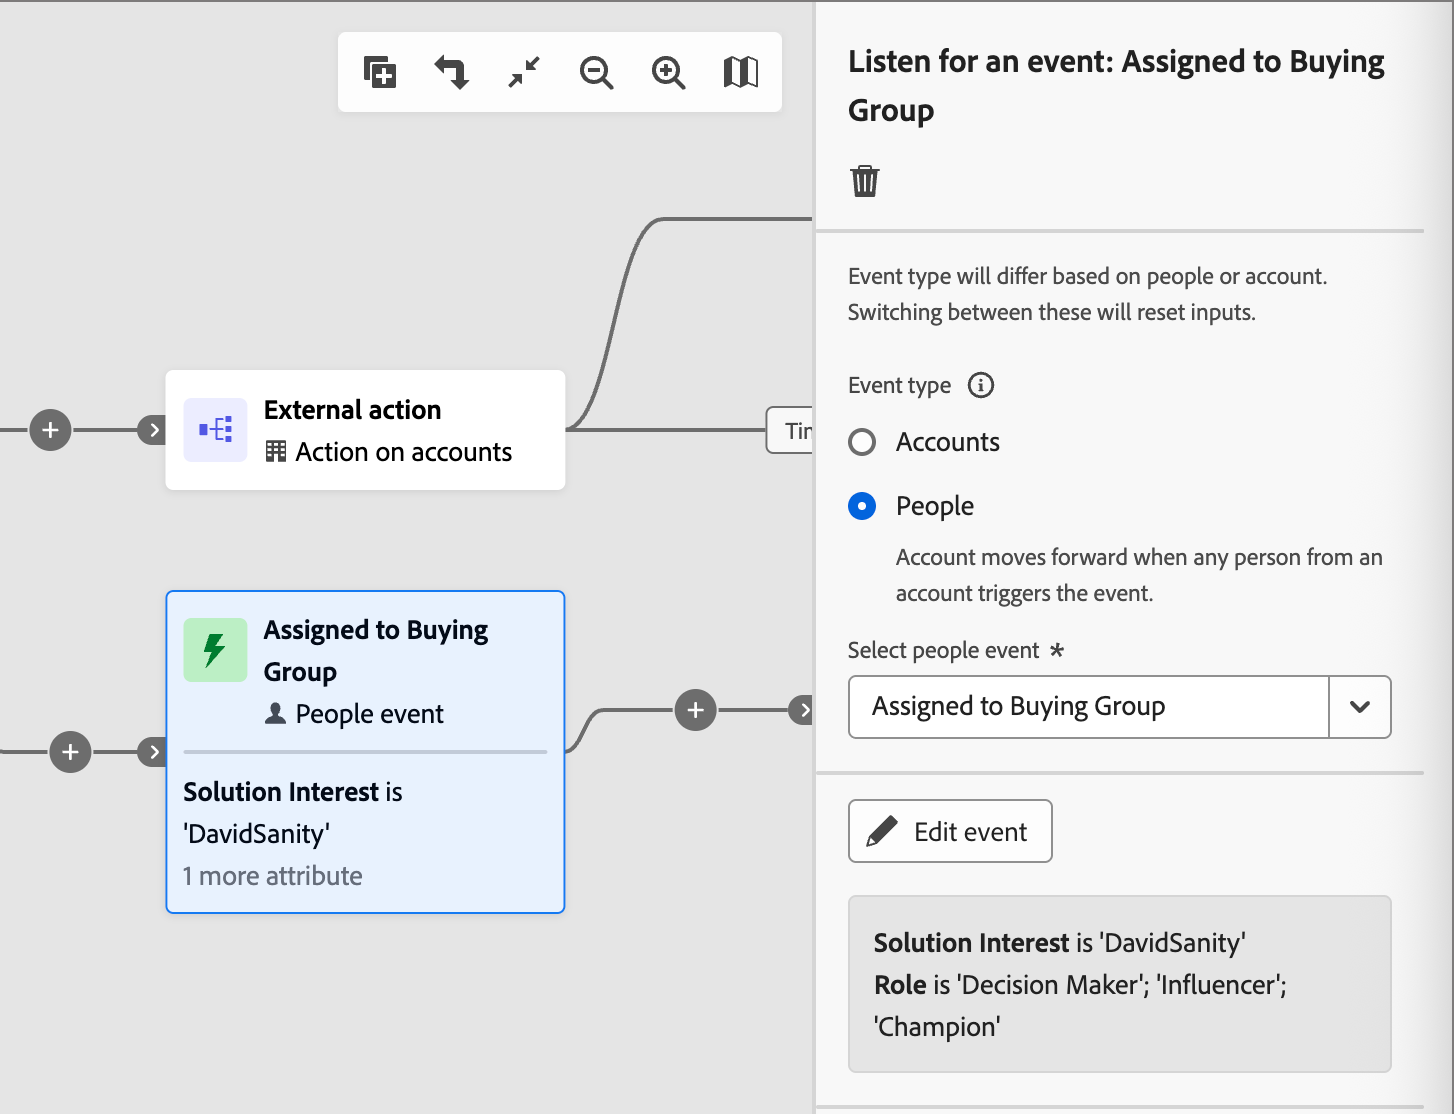
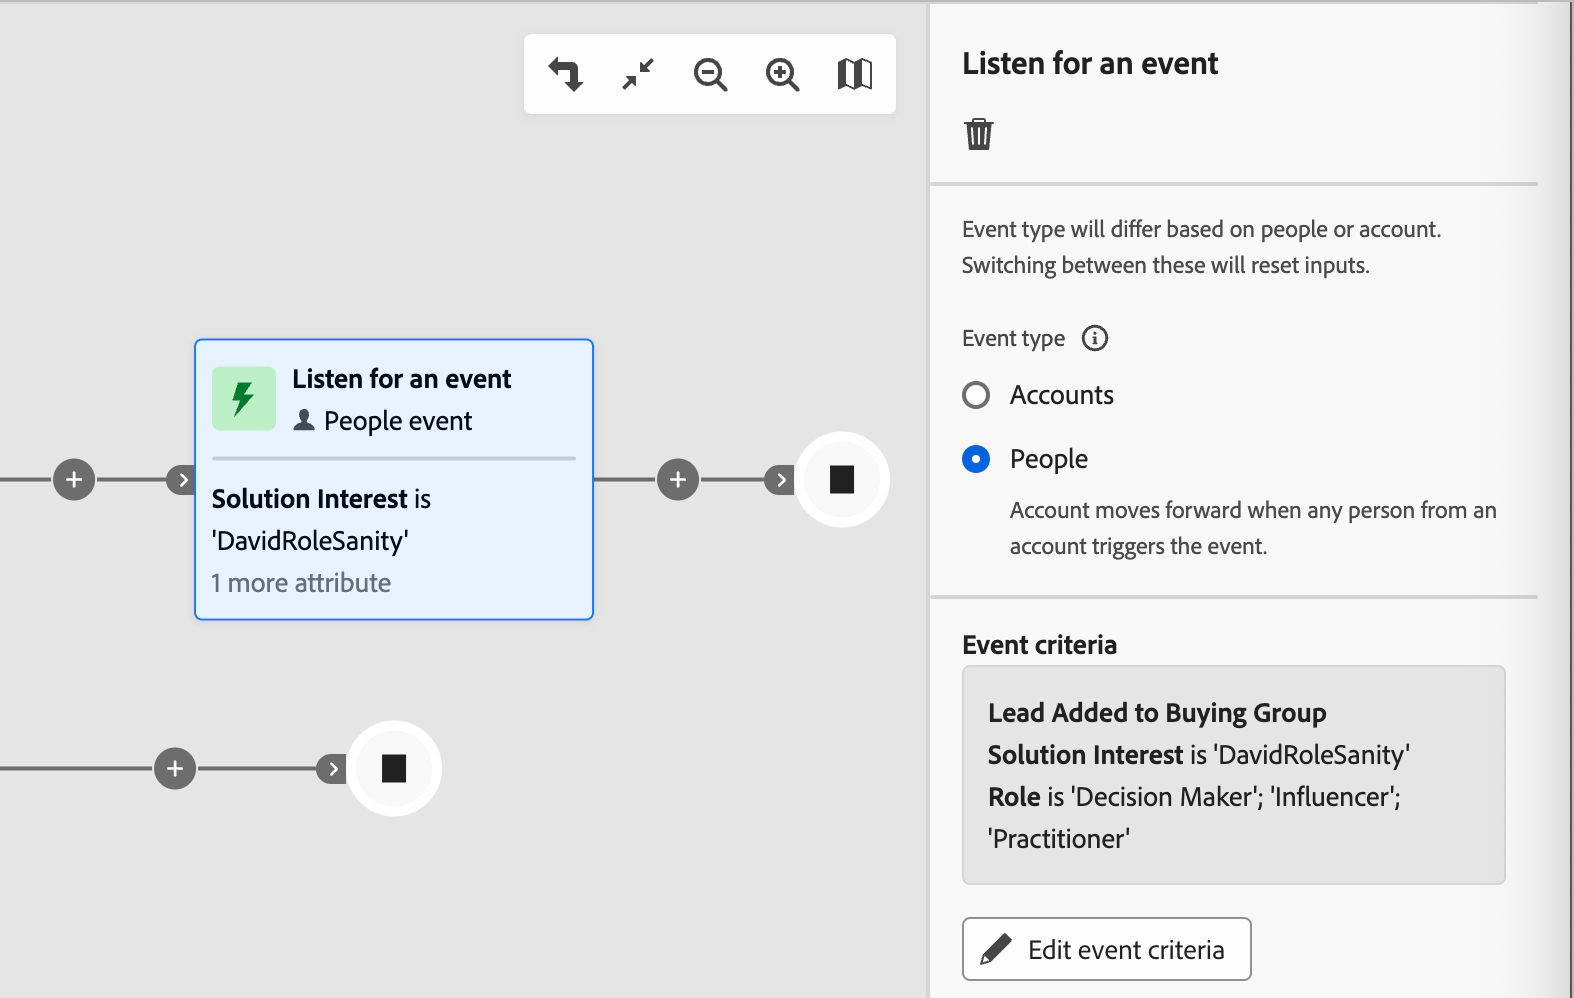
SPHR-36708, Listen for an event account journey multiple trigger/filter support

Changed region(s): [[0.0, 0.0, 1.0, 1.0], [0.4333, 0.1864, 0.5571, 0.2174], [0.2476, 0.0311, 0.2785, 0.0932]]

diff --git a/help/user/journeys/listen-for-event-nodes.md b/help/user/journeys/listen-for-event-nodes.md
@@ -44,80 +44,49 @@ To move the audience forward to the next step in your [journey](./journeys-overv
 
 1. In the node properties on the right, use the _Event type_ selector to choose between **[!UICONTROL Accounts]** and **[!UICONTROL People]**.
 
-1. Select an event from the list.
-
-   * For the _People_ event type, choose the [people event](#people-events) that you want to use for the trigger.
-
-       ![Journey node - listen for events on people](./assets/node-listen-events-people.png){width="500" zoomable="yes"}
+1. Define the event trigger for the selected event type:
 
    * For the _Accounts_ event type, choose the [account event](#account-events) that you want to use for the trigger.
 
       ![Journey node - listen for events on account](./assets/node-listen-events-account.png){width="500" zoomable="yes"}
 
-1. Click **[!UICONTROL Edit event]** and define details for the event.
+      Click **[!UICONTROL Edit event]** and define the matching criteria for the [account event](#account-events).
 
-   Depending on the selected event type and event, define the event matching criteria.
+   * For the _People_ event type, click **[!UICONTROL Add event criteria]**.
 
-   * [People events](#people-events)
-   * [Account events](#account-events)
+      ![Journey node - listen for events on people](./assets/node-listen-events-people.png){width="500" zoomable="yes"}
 
-   You can also include [filters](#filters-people-event) for the event.
+      In the _Edit event_ dialog, drag and drop one or more [people events](#people-events) into the builder space and set the definition for each. Click **[!UICONTROL Add constraint]** for each constraint that you want to use to refine the event match.
+
+      You can add multiple people events to match. The first qualifying event advances the account forward in the journey.
+
+      ![Account journey node - Listen to events - People event type - edit event](./assets/node-listen-events-account-people-edit-event.png){width="700" zoomable="yes"}
+
+      (Optional) Select the **[!UICONTROL Filters]** tab to [add filters for the event](#filters-people-event).
 
 1. Click **[!UICONTROL Done]**.
 
-   The event and filter definitions are displayed in the node and in the node properties.
+   The event and filter definitions are displayed in the node properties.
 
-   ![Account journey node - Listen to events - Event and filters](./assets/node-listen-events-account-complete.png){width="500"}
+   ![Account journey node - Listen to events - Events defined](./assets/node-listen-events-account-complete.png){width="500"}
 
 ### People events for account journeys {#people-events}
 
-In an account journey, you can listen for an event based on people when you want to move the account forward in the journey according to events triggered by people activity. You can also filter events according to event history and people attributes.
+In an account journey, you can listen for an event based on people when you want to move the account forward in the journey according to events triggered by person (lead) activities. You can also filter events according to event history and person attributes.
 
 >[!TIP]
 >
->Experience events can occur _before_ people enter the journey (such as a prior email click or web interaction). To route people based on these events, use the [!UICONTROL Event history] filter in a [Split paths by people](./split-merge-paths-nodes.md#experience-event-history-filtering) node.
+>Experience Events can occur _before_ people enter the journey (such as a prior email click or web interaction). To route people based on these events, use the [!UICONTROL Event history] filter in a [Split paths by people](./split-merge-paths-nodes.md#experience-event-history-filtering) node.
+
+For detailed information about using Experience Events, see [Experience Event triggers](#experience-event-triggers).
 
 #### Journey Optimizer B2B events {#events-account-people}
 
 | Event | Constraints |
 | ----- | ----------- |
-| [!UICONTROL Assigned to Buying Group] | Solution interest (required)<br/><br/>Additional constraints (optional): <li>Role</li><li>Date of activity</li><br/>Timeout (optional) |
+| [!UICONTROL Lead Added to Buying Group] | Solution interest (required)<br/><br/>Additional constraints (optional): <li>Role</li><li>Date of activity</li>|
+| [!UICONTROL Lead Removed from Buying Group] | Solution interest (required)<br/>Date of activity (optional) |
 | [!UICONTROL Person profile changes] | Attribute (required)<br/>Date of activity (optional)<br/>New value (optional)<br/>Previous value (optional)<br/>Reason (optional)<br/>Source (optional) |
-| [!UICONTROL Removed from Buying Group] | Solution interest (required)<br/>Date of activity (optional)<br/>Timeout (optional) |
-
-1. Set the required value to match for the event.
-
-   If needed, set the operator for the evaluation.
-
-1. For each optional constraint that you want to include for event match, click **[!UICONTROL Add constraint]** and select a constraint in the list.
-
-   ![Edit event dialog for a Journey Optimizer B2B people event in an account journey](./assets/node-listen-events-account-people-edit-event.png){width="700" zoomable="yes"}
-
-1. (Optional) Select the **[!UICONTROL Filters]** tab to [add filters for the event](#filters-people-event).
-
-1. Click **[!UICONTROL Done]**.
-
-#### Experience Events {#experience-events-account-people}
-
->[!PREREQUISITES]
->
->Administrators configure [Adobe Experience Platform (AEP) Experience Events](https://experienceleague.adobe.com/en/docs/experience-platform/xdm/classes/experienceevent){target="_blank"}, which enable marketers to create account and person journeys that react to the events in near real-time.
->
->To make Experience Events available for journeys, a product administrator must first [add the event types and fields of interest](../admin/configure-aep-events.md#add-an-event) in [!DNL Journey Optimizer B2B Edition].
-
-1. Click **[!UICONTROL Add constraint]** and choose the field that you want to use for the constraint.
-
-   The available constraints are defined as managed fields for the event configuration.
-   
-1. Complete the condition for the constraint. 
-
-   You can use the default **[!UICONTROL is]** operator to match one or more field values. Or you can use the **[!UICONTROL is not]** operator to match on all values with the exclusion of one or more specified values.
-  
-   ![Edit event dialog for an Experience Event in an account journey](./assets/node-listen-events-people-aep-events-edit-dialog.png){width="700" zoomable="yes"}
-
-1. (Optional) Select the **[!UICONTROL Filters]** tab to [add filters for the event](#filters-people-event).
-
-1. Click **[!UICONTROL Done]**.
 
 ### Account events {#account-events}
 
@@ -132,7 +101,7 @@ In an account journey, you can listen for an event based on the account when you
 | [!UICONTROL Change in Completeness Score] | Solution interest<br/>Additional constraints (optional): <li>New score</li><li>Previous score</li><li>Date of activity</li><br/> Timeout (optional) |
 | [!UICONTROL Change in Engagement Score] | Solution interest<br/>Additional constraints (optional): <li>New score</li><li>Previous score</li><li>Date of activity</li><br/> Timeout (optional) |
 
-1. Set the required constraint to match for the event.
+1. To match the event, set the required constraint.
 
 1. For each optional constraint that you want to include for event match, click **[!UICONTROL Add constraint]** and select the field.
 
@@ -205,7 +174,7 @@ If you have web pages in your connected Marketo Engage instance, you can trigger
 
 1. Add an event and set the constraints that you want to match for the trigger.
 
-   You can use [Experience Events](#experience-events-person) and [Person profile changes](#person-profile-changes) to define the event trigger.
+   You can use [Experience Events](#experience-event-triggers) and [Person profile changes](#person-profile-changes) to define the event trigger.
 
    Drag and drop the event trigger into the builder space and set the definition. Click **[!UICONTROL Add constraint]** for each constraint that you want to use to refine the event match.
 
@@ -215,19 +184,39 @@ If you have web pages in your connected Marketo Engage instance, you can trigger
 
 1. Click **[!UICONTROL Done]**.
 
-   The event and filter definitions are displayed in the node and in the node properties.
+   The event and filter definitions are displayed in the node properties.
 
    ![Journey node - Listen to events - Event and filters](./assets/node-listen-events-person-complete.png){width="450"}
 
-### Experience Events for person journeys {#experience-events-person}
+### Person profile changes {#person-profile-changes}
+
+For person journeys, you can use a change in B2B person profile attributes to trigger the _Listen for an event_ node.
+
+1. Drag and drop **[!UICONTROL Person profile change]**s from the _[!UICONTROL Triggers]_ list into the event matching builder space.
+
+1. Click **[!UICONTROL Add constraint]** and select the attribute change that you want to use for the event trigger. 
+
+   Set the field value according to the change that you want to match.
+
+   ![Person journey - Listen for a person profile change event](./assets/node-listen-event-person-edit-event.png){width="700" zoomable="yes"}
+
+1. (Optional) Add another _Person profile change_ attribute that you want to use as an event trigger, or an [Experience Event](#experience-event-triggers).
+
+   When you add multiple events to match, the first qualifying event advances the person profile forward in the journey.
+
+1. (Optional) Select the **[!UICONTROL Filters]** tab to [add filters for the event](#filters-people-event).
+
+1. Click **[!UICONTROL Done]**.
+
+## Experience Event triggers {#experience-event-triggers}
+
+Experience Events are available for person journeys or when you use the _People_ event type in account journeys. Use the _[!UICONTROL Edit event]_ dialog to add one or more Experience Events for triggering the _Listen for an event_ node.
 
 >[!PREREQUISITES]
 >
 >Administrators configure [Adobe Experience Platform (AEP) Experience Events](https://experienceleague.adobe.com/en/docs/experience-platform/xdm/classes/experienceevent){target="_blank"}, which enable marketers to create account and person journeys that react to the events in near real-time.
 >
 >To make Experience Events available for journeys, a product administrator must first [add the event types and fields of interest](../admin/configure-aep-events.md#add-an-event) in [!DNL Journey Optimizer B2B Edition].
-
-You can use Experience Events to trigger the node in person journeys in the _[!UICONTROL Edit event]_ dialog.
 
 1. Expand **[!UICONTROL Sapphire AEP events]** in the _[!UICONTROL Triggers]_ list on the left.
 
@@ -241,31 +230,15 @@ You can use Experience Events to trigger the node in person journeys in the _[!U
   
    ![Edit event dialog for an Experience Event in a person journey](./assets/node-listen-events-person-journey-edit-event-aep-event.png){width="700" zoomable="yes"}
 
-1. Set the operator and values to match for the event field.
+1. To match the event field, set the operator and values.
 
-1. (Optional) Add another Experience event or a [person profile change](#person-profile-changes).
+1. (Optional) Add another event.
 
-   When you add multiple events to match. The first qualifying event advances the person profile forward in the journey.
+   You can use multiple Experience Events for triggering the node.
 
-1. (Optional) Select the **[!UICONTROL Filters]** tab to [add filters for the event](#filters-people-event).
+   For a person journey you can also add [person profile changes](#person-profile-changes). For an account journey (people event type), you can also add [Journey Optimizer B2B events](#events-account-people).
 
-1. Click **[!UICONTROL Done]**.
-
-### Person profile changes {#person-profile-changes}
-
-You can use a change in B2B person profile attributes to trigger the node in person journeys in the _[!UICONTROL Edit event]_ dialog.
-
-1. Drag and drop **[!UICONTROL Person profile change]**s from the _[!UICONTROL Triggers]_ list into the event matching builder space.
-
-1. Click **[!UICONTROL Add constraint]** and select the attribute change that you want to use for the event trigger. 
-
-   Set the field value according to the change that you want to match.
-
-   ![Person journey - Listen for a person profile change event](./assets/node-listen-event-person-edit-event.png){width="700" zoomable="yes"}
-
-1. (Optional) Add another _Person profile change_ attribute that you want to use as an event trigger, or an [Experience Event](#experience-events-person).
-
-   When you add multiple events to match. The first qualifying event advances the person profile forward in the journey.
+   When you add multiple events to match, the first qualifying event advances the person profile forward in the journey.
 
 1. (Optional) Select the **[!UICONTROL Filters]** tab to [add filters for the event](#filters-people-event).
 
@@ -305,12 +278,11 @@ When you define a [people event in an account journey](#people-events) or an [ev
 
 1. When the event and filter definitions are complete, click **[!UICONTROL Done]**.
 
-
 ## Add a timeout to an event node {#timeouts}
 
 If needed, define the amount of time the journey waits for the event. The journey ends after a timeout unless you define a timeout path, where you can add other nodes.
 
-Enable the **[!UICONTROL Timeout]** option in the node properties to specify a timeout for the _Listen for event_ node.
+Enable the **[!UICONTROL Timeout]** option in the node properties to specify a timeout for the _Listen for an event_ node.
 
 1. With the options enabled, choose the _Type_ and specify the parameters for the timeout:
 
@@ -332,7 +304,7 @@ Enable the **[!UICONTROL Timeout]** option in the node properties to specify a t
 
 1. Define the timeout path.
 
-    The **[!UICONTROL Set timeout path]** option is selected by default. You can use this path to define what happens if the Listen for event node times out. You can add alternative actions and events that apply to person profiles when the event does not occur.
+    The system selects the **[!UICONTROL Set timeout path]** option by default. You can use this path to define what happens if the _Listen for an event_ node times out. You can add alternative actions and events that apply to person profiles when the event does not occur.
 
    ![Journey event node - set timeout path](./assets/node-event-timeout-set-path.png){width="600" zoomable="yes"}
 
